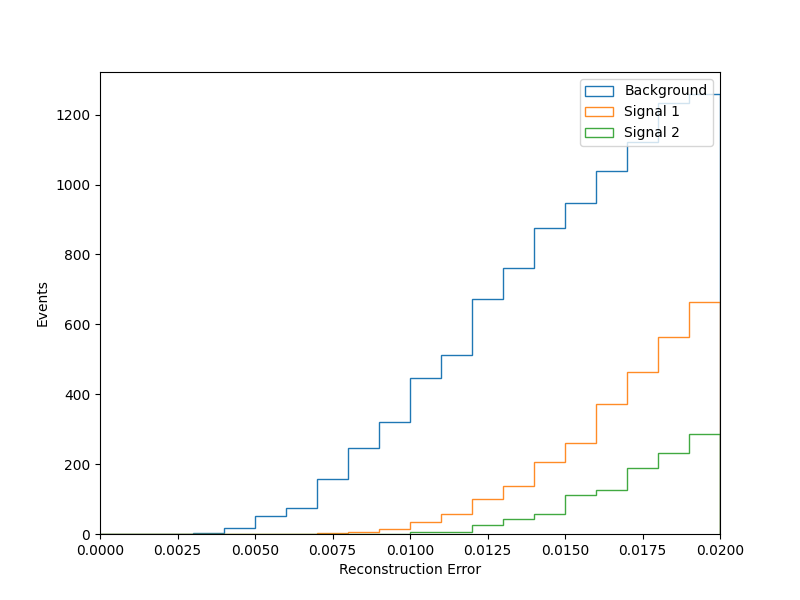
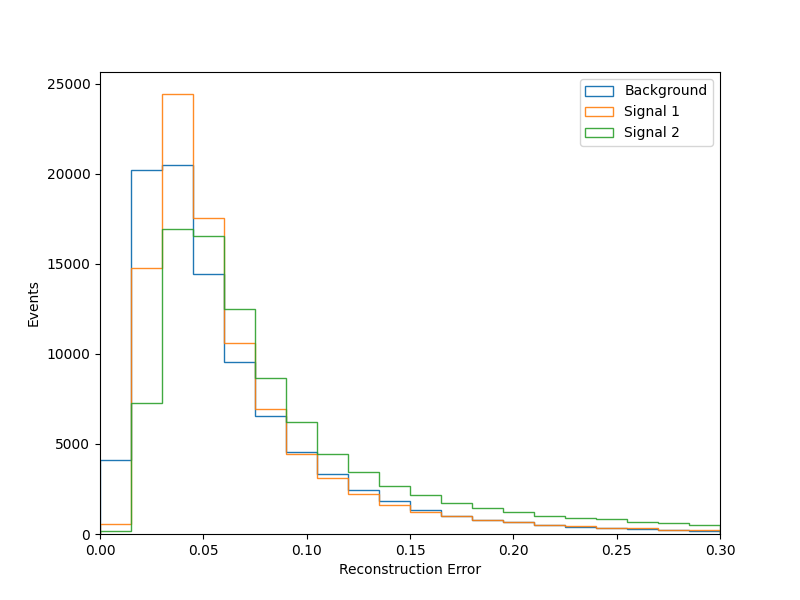
Testing with standard scaling and 84, 14 layer dimensions

diff --git a/test.py b/test.py
@@ -131,12 +131,12 @@ loss_sig2_total = loss_sig2.sum(axis=1) / 42
 # Plot Total Reconstruction Error
 nbins = 20
 fig, axes = plt.subplots(figsize=(8,6))
-axes.hist([loss_bkg_total], nbins, range=(0, 0.02), density=0, histtype='step', label=['Background'], stacked=True, alpha=1)
-axes.hist([loss_sig1_total], nbins, range=(0, 0.02), density=0, histtype='step', label=['Signal 1'], stacked=True, alpha=0.9)
-axes.hist([loss_sig2_total], nbins, range=(0, 0.02), density=0, histtype='step', label=['Signal 2'], stacked=True, alpha=0.9)
+axes.hist([loss_bkg_total], nbins, range=(0, 0.3), density=0, histtype='step', label=['Background'], stacked=True, alpha=1)
+axes.hist([loss_sig1_total], nbins, range=(0, 0.3), density=0, histtype='step', label=['Signal 1'], stacked=True, alpha=0.9)
+axes.hist([loss_sig2_total], nbins, range=(0, 0.3), density=0, histtype='step', label=['Signal 2'], stacked=True, alpha=0.9)
 axes.set_xlabel(r"Reconstruction Error")
 axes.set_ylabel("Events")
-axes.set_xlim(0, 0.02)
+axes.set_xlim(0, 0.3)
 axes.legend(loc='upper right')
 fig.savefig(f"figs/testing/reconstruction_error_{scale}_{mid_dim}_{latent_dim}.png")
 

diff --git a/autoencoder.py b/autoencoder.py
@@ -45,7 +45,7 @@ class AutoEncoder(nn.Module):
             nn.Linear(latent_dim, mid_dim),
             nn.ReLU(),
             nn.Linear(mid_dim, input_dim),
-            nn.ReLU()
+            nn.PReLU()
         )
 
         # Initialize decoder weights with encoder weights
